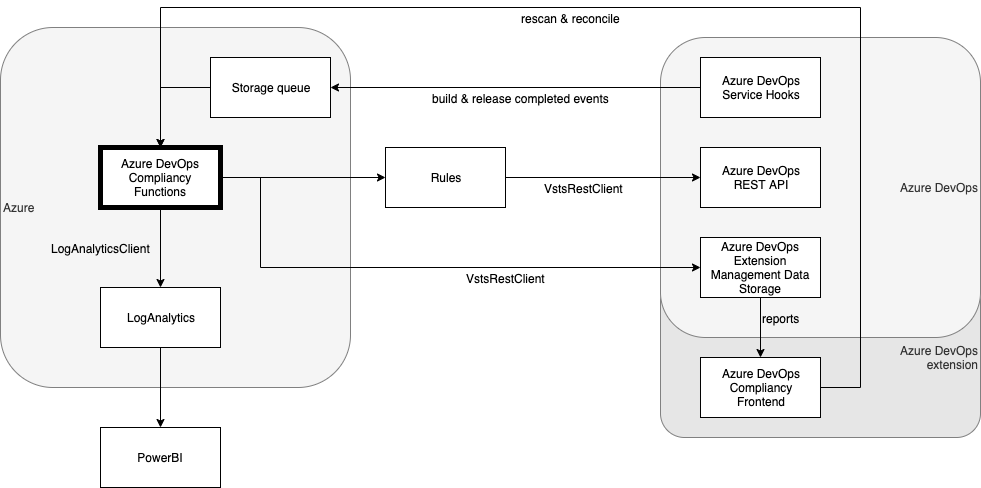
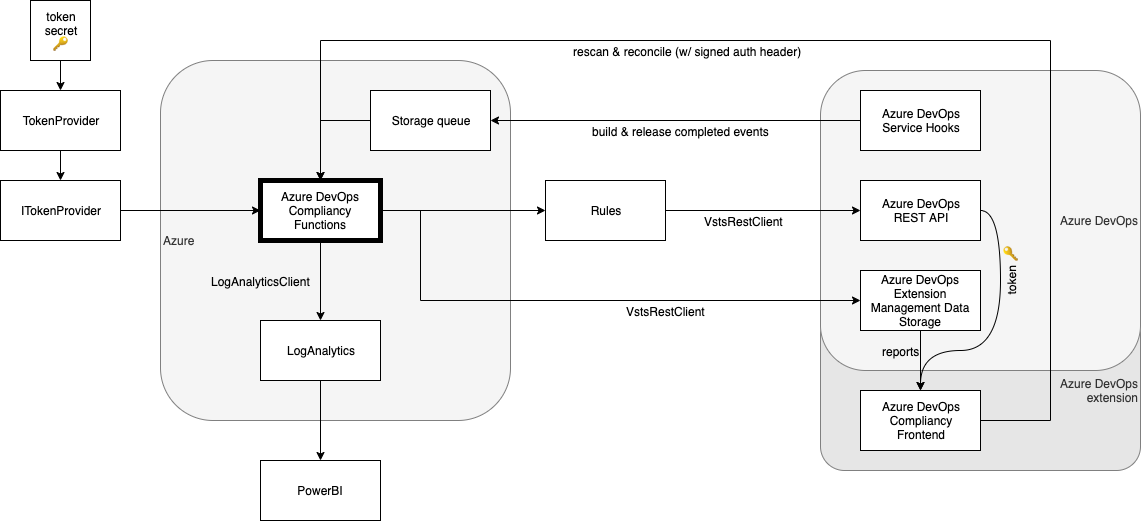
feat(readme): included token secret, hooks functions and completeness function

diff --git a/README.md b/README.md
@@ -1,15 +1,15 @@
-## Setup
-![arch](docs/arch.png)
-
-### Functions
+# Functions
 
 type            | function
 ----------------|----------
 Time-triggered  | compliancy check van projecten, repo's en pipelines
 Http-triggered  | rescan van compliancy van project
-Event-triggered | compliancy check van build & release pipelines
+Event-triggered | compliancy check van build & release completed events 
 Non-triggered   | het opnieuw proberen van messages in de poison-queue
 Time-triggered  | controleren van compleetheid van de compliancy check
+
+## Compliancy
+![arch](docs/arch.png)
 
 ### Rules
 
@@ -27,12 +27,27 @@ Hand-rolled client voor wegschrijven en uitlezen van records in LogAnalytics.
 
 Azure DevOps frontend extension voor het weergeven van compliancy reports en uitvoeren van reconcile en rescan.
 
-## Shared Secret gebruikt in Tokenizer
+### Shared Secret
 
 Het authorization header dat meekomt vanuit de compliancy frontend in Azure DevOps is signed met het secret van de 
 extension en daarop wordt gecontroleerd in de `Tokenizer`. Dit secret wordt meegegeven als secret variable in de pipeline
 bij de deployment van de functions.
 
-Mocht je het secret ooit opnieuw nodig hebben, dan kan je deze downloaden in de https://marketplace.visualstudio.com:
+Mocht je het secret ooit opnieuw nodig hebben, dan kan je deze downloaden in de [marketplace](https://marketplace.visualstudio.com):
 
 ![certificate](docs/marketplace.png)
+
+## Hooks
+
+Om te reageren op de builds & releases die klaar zijn wordt met behulp van een function
+in elk team project een tweetal hooks aangemaakt die het completed event in de storage queue
+wegschrijven.
+
+![hooks](docs/hooks.png)
+
+## Completeness
+
+De function controleert of de scan op 600+ team projects succesvol is afgerond. Door throttling
+op de REST API en null reference exception in code kan het voorkomen dat analyze voortijdig wordt afgebroken. 
+
+![completeness](docs/completeness.png)
